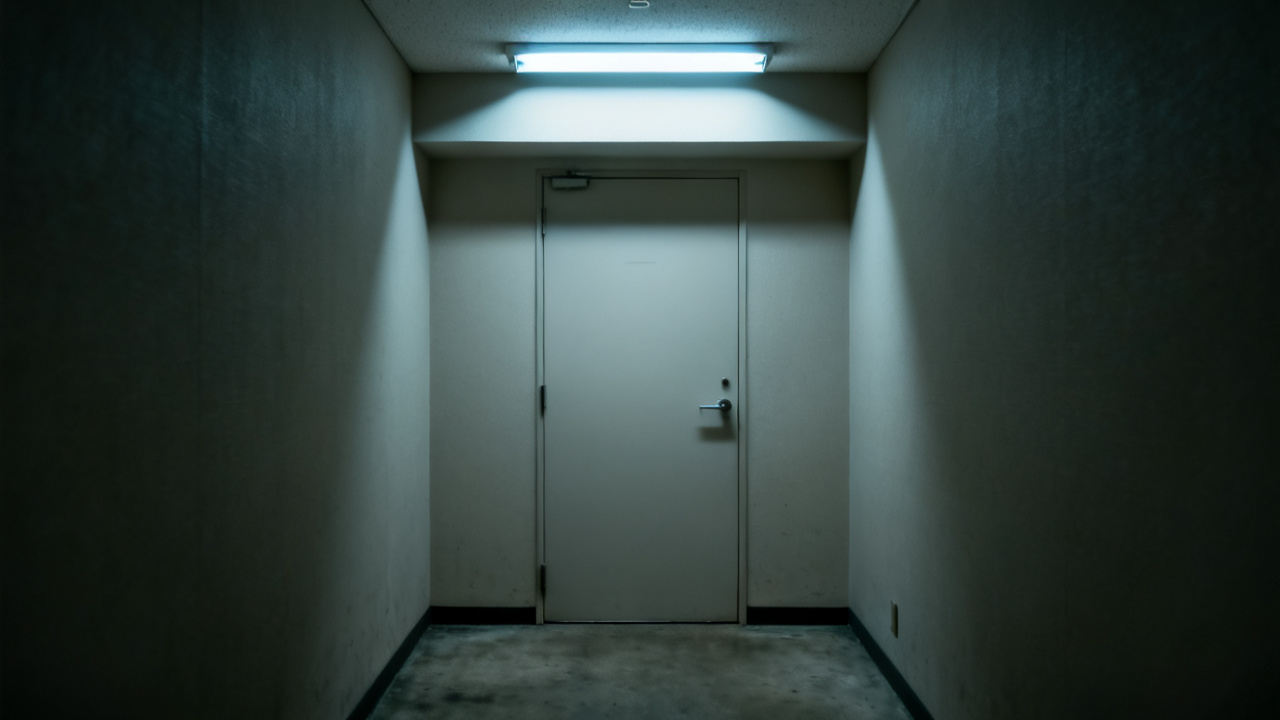
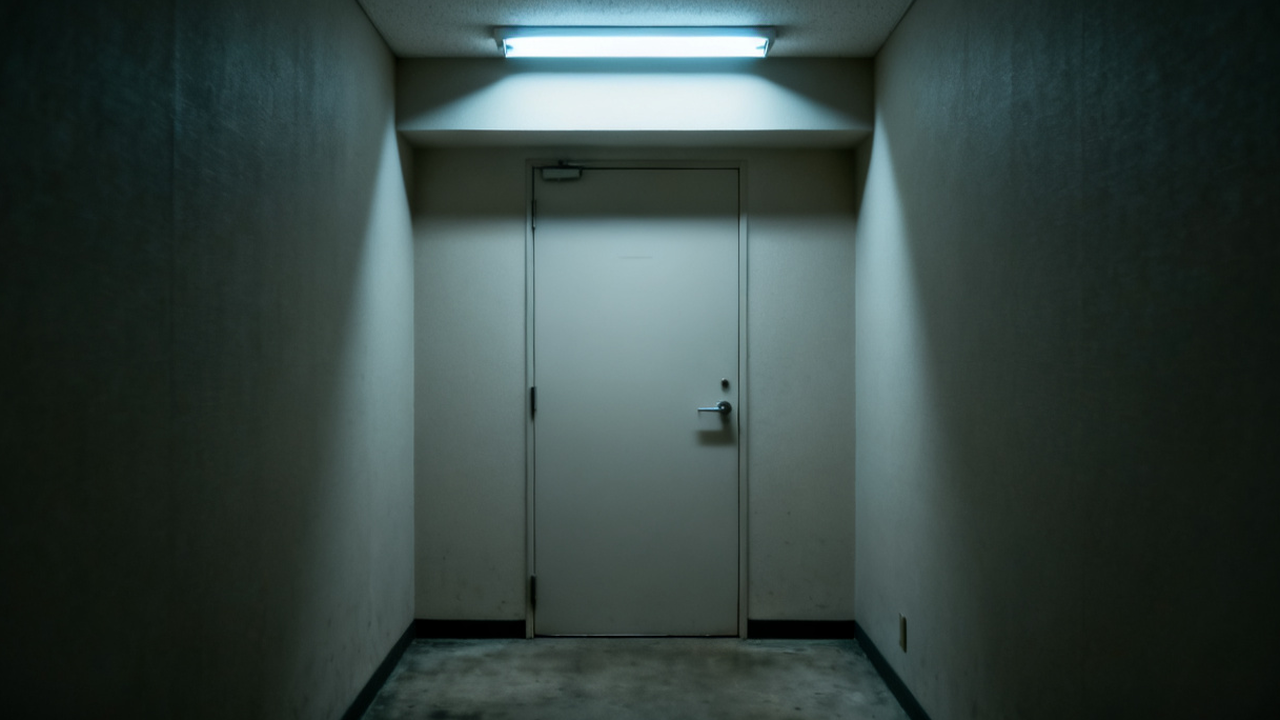
PHASE 4 키프레임 136장 확정(B 재생성 4차 S14h·S05c 합격, 전수 레터박스 검사), 비용 기록
Claude-Session: https://claude.ai/code/session_01NcCUyptYk83EHSkd2nddfa

Changed region(s): [[0.25, 0.0, 0.7188, 1.0], [0.5312, 0.55, 0.5938, 0.6417], [0.5938, 0.9778, 0.6562, 1.0]]

diff --git a/productions/tower-bossmom-ja/fix_keyframes.py b/productions/tower-bossmom-ja/fix_keyframes.py
@@ -22,6 +22,7 @@ CROPS = {
     "S16i": (160, 249, 400, 384),   # 지팡이 손잡이를 쥔 손
     "S16i2": (186, 220, 426, 355),  # 체인 끈을 쥔 떨리는 손가락
     "S15a": (160, 110, 480, 290),   # 재생성분: 스탠드를 쥔 손(빈 마이크 집게·왼쪽 종이 제외)
+    "S05c": (95, 63, 665, 384),     # 재생성분: 박수 치는 세 엄마(시트 일치) 중심
 }
 # 흐림 영역 — 키즈룸 복도 벽 게시물·작은 메모(가짜 글자). 배경 심도처럼 보이게 강하게 흐린다
 BLURS = {
@@ -47,7 +48,7 @@ def blur(im, box, r=7):
 
 def src(sid):
     r = os.path.join(SRC_R, f"{sid}-1.png")
-    return r if sid == "S15a" else os.path.join(SRC, f"{sid}-1.png")
+    return r if sid in ("S15a", "S05c") else os.path.join(SRC, f"{sid}-1.png")
 
 
 def main():
